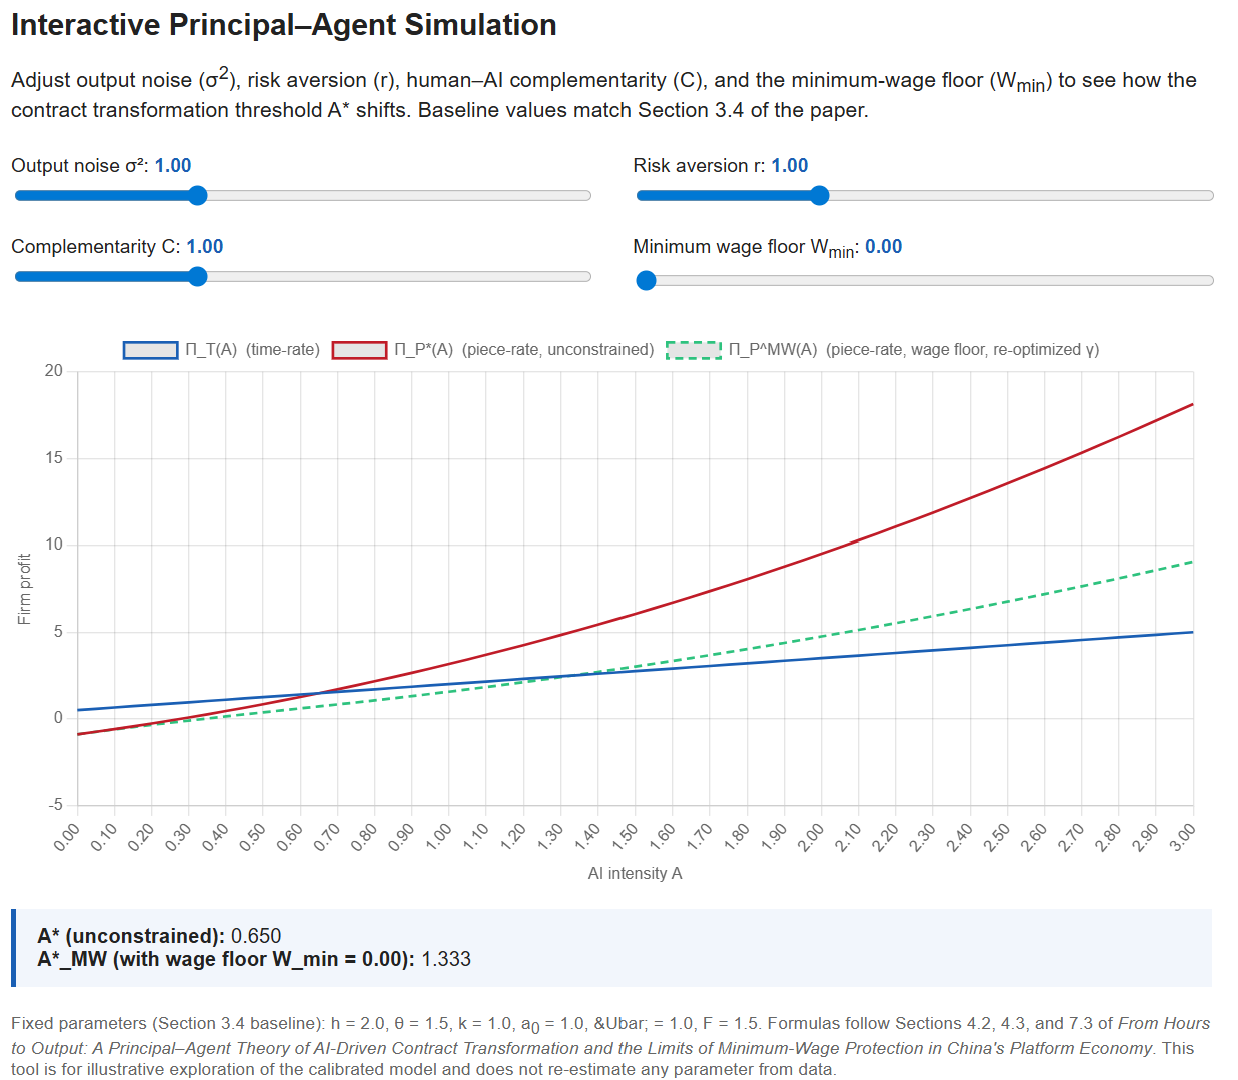
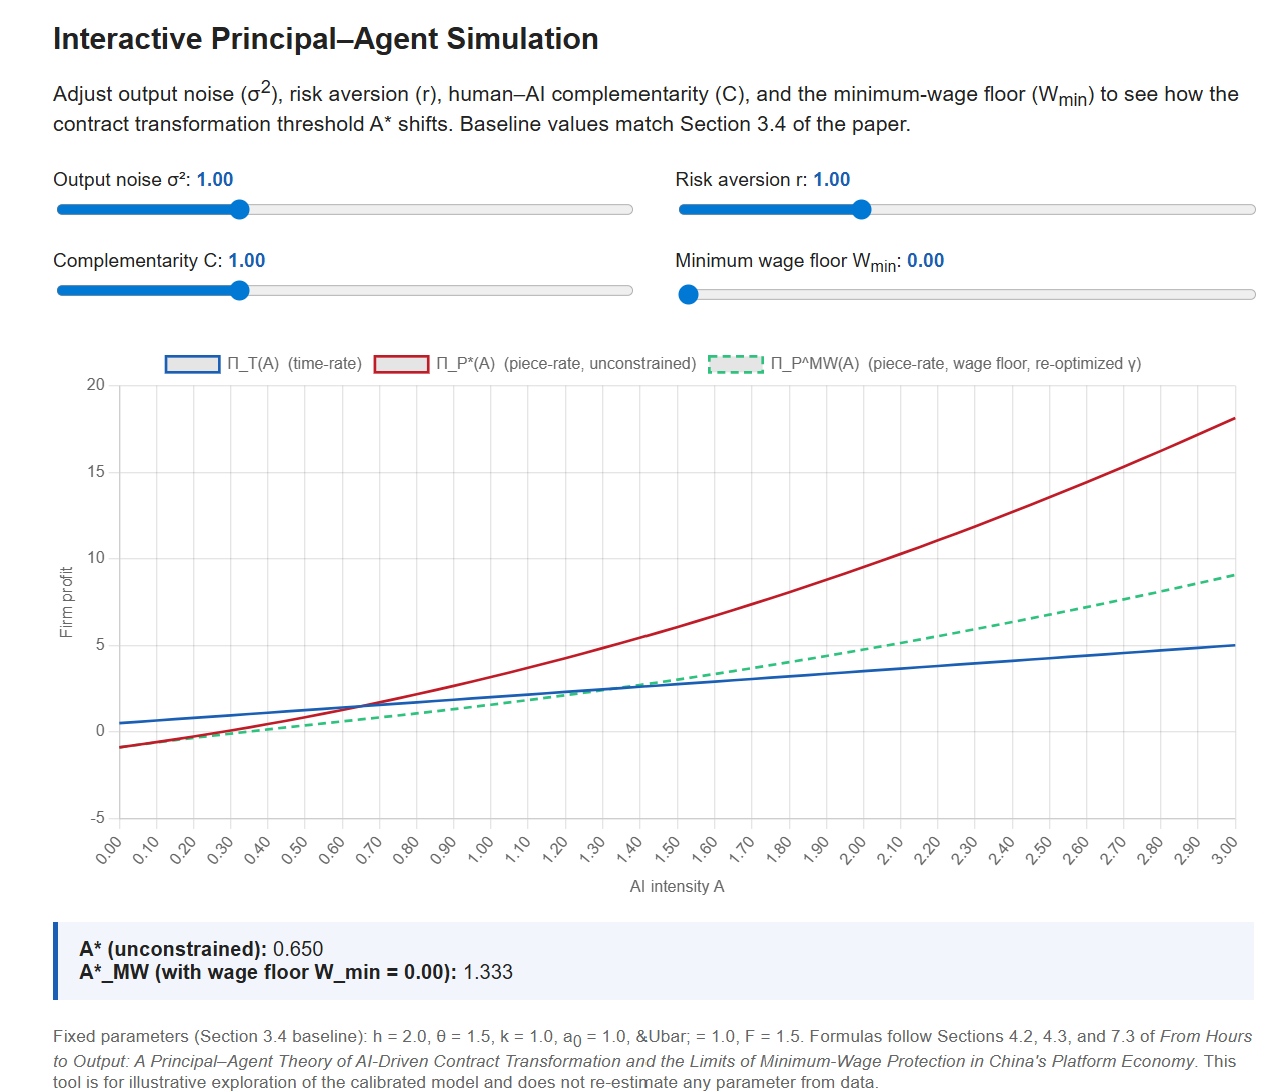
update

diff --git a/paper/from-hours-to-output.md b/paper/from-hours-to-output.md
@@ -818,9 +818,9 @@ These insights form the theoretical foundation for Section 7's numerical simulat
 
 This section presents numerical simulations that illustrate the theoretical results derived in Sections 5 and 6. Using the calibrated parameters from Section 3, we evaluate firm profit under the time‑rate and piece‑rate contracts, compute the contract transformation threshold $A^*$, and examine how risk, uncertainty, and regulation affect the profitability of output‑based compensation. An interactive version of the simulations below — allowing readers to vary $\sigma^2$, $r$, $C$, and $W_{\min}$ in real time and see $A^*$ recomputed on the fly — is accessible online via the [interactive simulation widget](https://danghaosheng2028.github.io/ai-contract-transformation/) (source: `docs/index.html` in the code repository).
 
-**Figure 0: Interactive simulation widget (default baseline view).** Screenshot of the deployed widget at baseline parameters ($\sigma^2=r=C=1.00$, $W_{\min}=0.00$), showing the unconstrained profit crossing at $A^*\approx0.650$ matching Section 7.1. *(See `simulation/widget_screenshot_1.png` in the code repository.)*
+**Figure 0: Interactive simulation widget (default baseline view).** Screenshot of the deployed widget at baseline parameters ($\sigma^2=r=C=1.00$, $W_{\min}=0.00$), showing the unconstrained profit crossing at $A^*\approx0.650$ matching Section 7.1. *(See `simulation/fig0_widget.png` in the code repository.)*
 
-![Figure 0: Interactive simulation widget default view](../simulation/widget_screenshot_1.png)
+![Figure 0: Interactive simulation widget default view](../simulation/fig0_widget.png)
 
 All simulations use the baseline parameter set:
 
@@ -862,7 +862,7 @@ $$
 A^* \approx 0.65
 $$
 
-This $[0,3]$ range is a plotting convention, not a restriction on the domain over which $A^*$ is shown to exist (Theorem 1 holds for any positive parameter values, with no upper bound on $A$ required). The numerical root-finding code in the online repository accordingly searches a wider window than $[0,3]$ wherever a parameter combination would otherwise place $A^*$ outside the plotted range.
+This $[0,3]$ range is a plotting convention, not a restriction on the domain over which $A^*$ is shown to exist (Theorem 1 holds for any positive parameter values, with no upper bound on $A$ required). The numerical root-finding code in the online repository accordingly searches a wider window than $[0,3]$ wherever a parameter combination would otherwise place $A^*$ outside the plotted range; Appendix A.8 records a numerical check of this at the interactive widget's own parameter extremes.
 
 **Figure 1: Contract transformation threshold.** Plots calibrated time-rate profit $\Pi_T(A)$ against piece-rate profit $\Pi_P^*(A)$ for $A \in [0, 3]$. Time-rate profit rises only linearly because a fixed wage cannot capture the convex incentive gains AI-augmented effort makes possible; piece-rate profit rises convexly because higher $A$ raises effective human capital $\tilde{H}$, compounding through the $\tilde{H}^4$ term in $\Pi_P^*(A)$. The curves cross exactly once, at $A^* \approx 0.65$ under baseline calibration. Below the threshold, monitoring cost $F$ outweighs incentive gains and firms retain fixed wages; above it, convex gains dominate and output risk shifts onto workers. *(See `simulation/fig1_threshold.png` in the code repository, or explore this relationship interactively at the link above.)*
 

diff --git a/paper/extended-appendix.md b/paper/extended-appendix.md
@@ -53,7 +53,13 @@ $$
 Hence $G(A) = \Pi_P^*(A) - \Pi_T(A)$ contains the term $-\bar U(A) - (-\bar U(A)) = 0$: **$\bar U(A)$ cancels exactly**, regardless of its functional form, because the same worker faces the same outside option under either contract mode. $G(A)$, and hence $A^*$, is therefore completely independent of how $\bar U$ varies with $A$. $\blacksquare$
 
 We confirmed this numerically for four specifications — $\bar U(A) = 1.0$ (constant), $1.0+0.3A$ (linear), $1.0+0.2A+0.1A^2$ (quadratic), and $1.0+0.5\ln(1+A)$ (concave) — all four returning $A^*=0.649633$ to six decimal places. This directly addresses a natural general-equilibrium concern: even if AI adoption raises workers' economy-wide outside options as it becomes more prevalent, this does not affect the contract-mode threshold *for a given firm and worker*, since both contract modes draw on the same competitive labor market.
--e 
+
+## A.8 Numerical Check: Existence at the Interactive Widget's Parameter Extremes
+
+Section 7.1 notes that the $[0,3]$ range used in Figures 1–3 is a plotting convention, not a bound on where $A^*$ is shown to exist — Theorem 1 holds for any positive parameter combination, with no upper bound on $A$ required. We confirm this directly at the most adverse parameter corner the interactive widget's sliders allow: $C=0.1$ (AI-augmentation effectiveness at its floor), $\sigma^2=3$ and $r=3$ (output noise and risk aversion both at their ceiling) — the combination least favorable to piece-rate contracting.
+
+At this corner, both $\Pi_T(A)$ and $\Pi_P^*(A)$ are pushed well below their baseline levels (the latter negative over most of $[0,3]$), and the crossing point moves far outside the plotted range: root-finding gives $A^*\approx13.01$ (unconstrained) and $A^*_{MW}\approx13.43$ (at $W_{\min}=0$) — both finite, consistent with Theorem 1, and both about 20 times the baseline $A^*\approx0.65$. This is the expected direction: weak AI augmentation combined with high noise and high risk aversion should make firms most reluctant to switch to output-based pay, so the threshold should be — and is — pushed far out rather than becoming undefined. The interactive widget itself displays these values live when its sliders are set to this corner.
+
 ---
 
 # Appendix C. A Unified Contract Family and Its Limits
